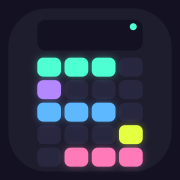
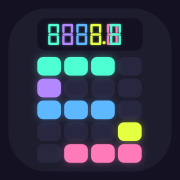
fix(brand): 屏幕改成七段 LED「8888.88」—— 空屏幕看不出是计算器
用户指出：屏幕里两个小点视觉上撑不起「计算器」，要换成彩色 LED 数字。

- brand/mark.svg：显示屏 212,104 600×184 内做七段数码管「8888.88」
  · 位宽 62 / 段厚 13 / 位高 120 / 间隙 18 / 小数点宽 16
  · 段用尖角六边形（七段管的形状，不是矩形）
  · 六位按五色相轮转：薄荷·紫·蓝·柠·粉·薄荷，小数点柠
  · 带 ledglow（stdDeviation 9）一层，与键盘的 neon-sm 分开 —— 两处发光强度不同
  · 原「指示灯」取消，让位给数字本身
- mark-small.svg：<32px 段加粗 13→22、位宽 70；屏幕与数字保留
- mark-mono.svg：屏幕 92% 白 + LED 白，亮/暗键分明
- 选 8888.88 而非具体数字：七段全点亮，远看是「发光的数字窗」；
  具体数字会诱使人去读它，反而忘了这是什么物件（写进规范）
- 样张 §三 结构表、尺寸阈值（16/24 → small）、引用完整性均已校验
- 重新生成 28 项资产；fn/ICON 256 27.2KB / 64 3.4KB
- 三份文档记下第三次改坏：屏幕留了但里面是空的

diff --git a/docs/design/v3-neon-m3.html b/docs/design/v3-neon-m3.html
@@ -259,56 +259,75 @@ hr{border:0;border-top:1px solid rgba(242,239,250,.08);margin:44px 0}
     </filter>
 
     <!-- 点亮格（发光与实色共用同一组几何：只画两遍，不逐格画） -->
-    <g id="lit"><rect x="114" y="114" width="172" height="140" rx="52" fill="#4DFFD2"/><rect x="322" y="114" width="172" height="140" rx="52" fill="#4DFFD2"/><rect x="530" y="114" width="172" height="140" rx="52" fill="#4DFFD2"/><rect x="114" y="278" width="172" height="140" rx="52" fill="#B388FF"/><rect x="114" y="442" width="172" height="140" rx="52" fill="#5DB8FF"/><rect x="322" y="442" width="172" height="140" rx="52" fill="#5DB8FF"/><rect x="530" y="442" width="172" height="140" rx="52" fill="#5DB8FF"/><rect x="738" y="606" width="172" height="140" rx="52" fill="#E5FF41"/><rect x="322" y="770" width="172" height="140" rx="52" fill="#FF7AB8"/><rect x="530" y="770" width="172" height="140" rx="52" fill="#FF7AB8"/><rect x="738" y="770" width="172" height="140" rx="52" fill="#FF7AB8"/></g>
-    <g id="grid-dark"><rect x="738" y="114" width="172" height="140" rx="52" fill="#282740"/><rect x="322" y="278" width="172" height="140" rx="52" fill="#282740"/><rect x="530" y="278" width="172" height="140" rx="52" fill="#282740"/><rect x="738" y="278" width="172" height="140" rx="52" fill="#282740"/><rect x="738" y="442" width="172" height="140" rx="52" fill="#282740"/><rect x="114" y="606" width="172" height="140" rx="52" fill="#282740"/><rect x="322" y="606" width="172" height="140" rx="52" fill="#282740"/><rect x="530" y="606" width="172" height="140" rx="52" fill="#282740"/><rect x="114" y="770" width="172" height="140" rx="52" fill="#282740"/></g>
 
     <!-- 计算器母版：显示屏 + 4×5 键盘，亮键拼出 S（≥32px） -->
-    <g id="calc-lit"><rect x="212" y="328" width="135" height="108" rx="34" fill="#4DFFD2"/><rect x="367" y="328" width="135" height="108" rx="34" fill="#4DFFD2"/><rect x="522" y="328" width="135" height="108" rx="34" fill="#4DFFD2"/><rect x="212" y="456" width="135" height="108" rx="34" fill="#B388FF"/><rect x="212" y="584" width="135" height="108" rx="34" fill="#5DB8FF"/><rect x="367" y="584" width="135" height="108" rx="34" fill="#5DB8FF"/><rect x="522" y="584" width="135" height="108" rx="34" fill="#5DB8FF"/><rect x="677" y="712" width="135" height="108" rx="34" fill="#E5FF41"/><rect x="367" y="840" width="135" height="108" rx="34" fill="#FF7AB8"/><rect x="522" y="840" width="135" height="108" rx="34" fill="#FF7AB8"/><rect x="677" y="840" width="135" height="108" rx="34" fill="#FF7AB8"/></g>
-    <g id="calc-dim"><rect x="677" y="328" width="135" height="108" rx="34" fill="#282740"/><rect x="367" y="456" width="135" height="108" rx="34" fill="#282740"/><rect x="522" y="456" width="135" height="108" rx="34" fill="#282740"/><rect x="677" y="456" width="135" height="108" rx="34" fill="#282740"/><rect x="677" y="584" width="135" height="108" rx="34" fill="#282740"/><rect x="212" y="712" width="135" height="108" rx="34" fill="#282740"/><rect x="367" y="712" width="135" height="108" rx="34" fill="#282740"/><rect x="522" y="712" width="135" height="108" rx="34" fill="#282740"/><rect x="212" y="840" width="135" height="108" rx="34" fill="#282740"/></g>
     <!-- 完整版 -->
     <symbol id="brand" viewBox="0 0 1024 1024">
-      <rect width="1024" height="1024" fill="#141222"/>
-      <rect x="48" y="48" width="928" height="928" rx="220" fill="#1E1D2E"/>
-      <rect x="212" y="112" width="600" height="176" rx="48" fill="#141222"/>
-      <circle cx="758" cy="152" r="20" fill="#4DFFD2"/>
-      <use href="#calc-dim"/>
-      <use href="#calc-lit" filter="url(#neon-sm)" opacity=".40"/>
-      <use href="#calc-lit"/>
+      <!-- v3 母版：**一台计算器**，屏幕显示 8888.88，键位亮出 S（≥32px）
+       三个部件缺一不可：
+         机身    48,48 → 928×928 rx 220        「这是一个物件」
+         显示屏  212,104 → 600×184 rx 48        七段 LED「8888.88」—— 屏幕**有内容**，
+                                                 才一眼看出是计算器（旧版屏幕是空的，
+                                                 只挂一个小指示灯，识别度不够）
+         键盘    4×5，格 135×106 rx 34，起点 (212,324)，与屏同宽 600
+       亮键 11 / 暗键 9，位置照抄原版：上横薄荷 → 左竖紫 → 中横蓝 → 右竖柠 → 下横粉
+       LED 六位按五色相轮转（薄荷/紫/蓝/柠/粉/薄荷），小数点柠。 -->
+  
+  <rect width="1024" height="1024" fill="#141222"/>
+  <rect x="48" y="48" width="928" height="928" rx="220" fill="#1E1D2E"/>
+  <rect x="212" y="104" width="600" height="184" rx="48" fill="#141222"/>
+  <use href="#led" filter="url(#ledglow)" opacity=".55"/>
+  <use href="#led"/>
+  <use href="#dim"/>
+  <use href="#lit" filter="url(#glow)" opacity=".40"/>
+  <use href="#lit"/>
     </symbol>
     <!-- 小尺寸版：键位改圆点，屏幕保留（16px 下方块会糊成一片） -->
     <symbol id="brand-sm" viewBox="0 0 1024 1024">
-      <rect width="1024" height="1024" fill="#141222"/>
-      <rect x="48" y="48" width="928" height="928" rx="220" fill="#1E1D2E"/>
-      <rect x="212" y="112" width="600" height="176" rx="48" fill="#141222"/>
-      <circle cx="790" cy="200" r="26" fill="#4DFFD2"/>
-      <circle cx="279" cy="382" r="26" fill="#4DFFD2"/>
-      <circle cx="434" cy="382" r="26" fill="#4DFFD2"/>
-      <circle cx="589" cy="382" r="26" fill="#4DFFD2"/>
-      <circle cx="744" cy="382" r="26" fill="#282740"/>
-      <circle cx="279" cy="510" r="26" fill="#B388FF"/>
-      <circle cx="434" cy="510" r="26" fill="#282740"/>
-      <circle cx="589" cy="510" r="26" fill="#282740"/>
-      <circle cx="744" cy="510" r="26" fill="#282740"/>
-      <circle cx="279" cy="638" r="26" fill="#5DB8FF"/>
-      <circle cx="434" cy="638" r="26" fill="#5DB8FF"/>
-      <circle cx="589" cy="638" r="26" fill="#5DB8FF"/>
-      <circle cx="744" cy="638" r="26" fill="#282740"/>
-      <circle cx="279" cy="766" r="26" fill="#282740"/>
-      <circle cx="434" cy="766" r="26" fill="#282740"/>
-      <circle cx="589" cy="766" r="26" fill="#282740"/>
-      <circle cx="744" cy="766" r="26" fill="#E5FF41"/>
-      <circle cx="279" cy="894" r="26" fill="#282740"/>
-      <circle cx="434" cy="894" r="26" fill="#FF7AB8"/>
-      <circle cx="589" cy="894" r="26" fill="#FF7AB8"/>
-      <circle cx="744" cy="894" r="26" fill="#FF7AB8"/>
+      <!-- v3 小尺寸版｜<32px：LED 段加粗（13→22），键位改圆点，**屏幕与 8888.88 保留**。
+       宁可牺牲键形，也不能丢掉「这是一台计算器」。 -->
+  <rect width="1024" height="1024" fill="#141222"/>
+  <rect x="48" y="48" width="928" height="928" rx="220" fill="#1E1D2E"/>
+  <rect x="212" y="104" width="600" height="184" rx="48" fill="#141222"/>
+  <use href="#led-sm" filter="url(#ledglow)" opacity=".5"/>
+  <use href="#led-sm"/>
+  <g fill="#282740">
+    <circle cx="279" cy="377" r="26"/>
+    <circle cx="432" cy="377" r="26"/>
+    <circle cx="585" cy="377" r="26"/>
+    <circle cx="738" cy="377" r="26"/>
+    <circle cx="279" cy="501" r="26"/>
+    <circle cx="432" cy="501" r="26"/>
+    <circle cx="585" cy="501" r="26"/>
+    <circle cx="738" cy="501" r="26"/>
+    <circle cx="279" cy="625" r="26"/>
+    <circle cx="432" cy="625" r="26"/>
+    <circle cx="585" cy="625" r="26"/>
+    <circle cx="738" cy="625" r="26"/>
+    <circle cx="279" cy="749" r="26"/>
+    <circle cx="432" cy="749" r="26"/>
+    <circle cx="585" cy="749" r="26"/>
+    <circle cx="738" cy="749" r="26"/>
+    <circle cx="279" cy="873" r="26"/>
+    <circle cx="432" cy="873" r="26"/>
+    <circle cx="585" cy="873" r="26"/>
+    <circle cx="738" cy="873" r="26"/>
+  </g>
+  <g fill="#4DFFD2"><circle cx="274" cy="377" r="26"/><circle cx="410" cy="377" r="26"/><circle cx="546" cy="377" r="26"/></g>
+  <g fill="#B388FF"><circle cx="274" cy="503" r="26"/></g>
+  <g fill="#5DB8FF"><circle cx="274" cy="629" r="26"/><circle cx="410" cy="629" r="26"/><circle cx="546" cy="629" r="26"/></g>
+  <g fill="#E5FF41"><circle cx="682" cy="755" r="26"/></g>
+  <g fill="#FF7AB8"><circle cx="410" cy="881" r="26"/><circle cx="546" cy="881" r="26"/><circle cx="682" cy="881" r="26"/></g>
     </symbol>
     <!-- 单色版：实心剪影 -->
     <symbol id="brand-mono" viewBox="0 0 1024 1024">
-      <rect width="1024" height="1024" fill="#141222"/>
-      <rect x="48" y="48" width="928" height="928" rx="220" fill="#1E1D2E"/>
-      <rect x="212" y="112" width="600" height="176" rx="48" fill="#141222"/>
-      <circle cx="758" cy="152" r="20" fill="#4DFFD2"/>
-      <g fill="#F2EFFA"><rect x="212" y="328" width="135" height="108" rx="34" fill="#4DFFD2"/><rect x="367" y="328" width="135" height="108" rx="34" fill="#4DFFD2"/><rect x="522" y="328" width="135" height="108" rx="34" fill="#4DFFD2"/><rect x="212" y="456" width="135" height="108" rx="34" fill="#B388FF"/><rect x="212" y="584" width="135" height="108" rx="34" fill="#5DB8FF"/><rect x="367" y="584" width="135" height="108" rx="34" fill="#5DB8FF"/><rect x="522" y="584" width="135" height="108" rx="34" fill="#5DB8FF"/><rect x="677" y="712" width="135" height="108" rx="34" fill="#E5FF41"/><rect x="367" y="840" width="135" height="108" rx="34" fill="#FF7AB8"/><rect x="522" y="840" width="135" height="108" rx="34" fill="#FF7AB8"/><rect x="677" y="840" width="135" height="108" rx="34" fill="#FF7AB8"/></g>
+      <!-- v3 单色版：屏幕+LED 亮、键位亮/暗分明（通知栏 / monochrome / 分层前景） -->
+  <rect width="1024" height="1024" fill="#141222"/>
+  <rect x="48" y="48" width="928" height="928" rx="220" fill="#1E1D2E"/>
+  <rect x="212" y="104" width="600" height="184" rx="48" fill="#F2EFFA" opacity=".92"/>
+  <use href="#led-mono"/>
+  <use href="#mono-dim"/>
+  <use href="#mono-lit"/>
     </symbol>
     <!-- 你给的原版（原样内联，用于并排对照） -->
     <symbol id="brand-orig" viewBox="0 0 240 320">
@@ -365,6 +384,14 @@ hr{border:0;border-top:1px solid rgba(242,239,250,.08);margin:44px 0}
     <symbol id="i-home" viewBox="0 0 24 24" fill="none" stroke="currentColor" stroke-width="1.8" stroke-linecap="round" stroke-linejoin="round"><path d="M4 10.8 12 4.5l8 6.3"/><path d="M6.6 9.4V19.5h10.8V9.4"/></symbol>
     <symbol id="i-list" viewBox="0 0 24 24" fill="none" stroke="currentColor" stroke-width="1.8" stroke-linecap="round"><path d="M4 7h16M4 12h16M4 17h10"/></symbol>
     <symbol id="i-budget" viewBox="0 0 24 24" fill="none" stroke="currentColor" stroke-width="1.8" stroke-linecap="round" stroke-linejoin="round"><circle cx="12" cy="12" r="7.5"/><path d="M12 12v-4.5M12 12l3.2 3.2"/></symbol>
+    <filter id="ledglow" x="-40%" y="-40%" width="180%" height="180%"><feGaussianBlur stdDeviation="9"/></filter>
+        <g id="led"><polygon points="274,142.5 280.5,136 329.5,136 336,142.5 329.5,149 280.5,149" fill="#4DFFD2"/><polygon points="329.5,136 336,142.5 336,183.0 329.5,189.5 323,183.0 323,142.5" fill="#4DFFD2"/><polygon points="323,202.5 336,202.5 336,249.5 329.5,256.0 323,249.5" fill="#4DFFD2"/><polygon points="274,249.5 280.5,243 329.5,243 336,249.5 329.5,256 280.5,256" fill="#4DFFD2"/><polygon points="274,202.5 287,202.5 287,249.5 280.5,256.0 274,249.5" fill="#4DFFD2"/><polygon points="280.5,136 287,142.5 287,183.0 280.5,189.5 274,183.0 274,142.5" fill="#4DFFD2"/><polygon points="274,196.0 280.5,189.5 329.5,189.5 336,196.0 329.5,202.5 280.5,202.5" fill="#4DFFD2"/><polygon points="354,142.5 360.5,136 409.5,136 416,142.5 409.5,149 360.5,149" fill="#B388FF"/><polygon points="409.5,136 416,142.5 416,183.0 409.5,189.5 403,183.0 403,142.5" fill="#B388FF"/><polygon points="403,202.5 416,202.5 416,249.5 409.5,256.0 403,249.5" fill="#B388FF"/><polygon points="354,249.5 360.5,243 409.5,243 416,249.5 409.5,256 360.5,256" fill="#B388FF"/><polygon points="354,202.5 367,202.5 367,249.5 360.5,256.0 354,249.5" fill="#B388FF"/><polygon points="360.5,136 367,142.5 367,183.0 360.5,189.5 354,183.0 354,142.5" fill="#B388FF"/><polygon points="354,196.0 360.5,189.5 409.5,189.5 416,196.0 409.5,202.5 360.5,202.5" fill="#B388FF"/><polygon points="434,142.5 440.5,136 489.5,136 496,142.5 489.5,149 440.5,149" fill="#5DB8FF"/><polygon points="489.5,136 496,142.5 496,183.0 489.5,189.5 483,183.0 483,142.5" fill="#5DB8FF"/><polygon points="483,202.5 496,202.5 496,249.5 489.5,256.0 483,249.5" fill="#5DB8FF"/><polygon points="434,249.5 440.5,243 489.5,243 496,249.5 489.5,256 440.5,256" fill="#5DB8FF"/><polygon points="434,202.5 447,202.5 447,249.5 440.5,256.0 434,249.5" fill="#5DB8FF"/><polygon points="440.5,136 447,142.5 447,183.0 440.5,189.5 434,183.0 434,142.5" fill="#5DB8FF"/><polygon points="434,196.0 440.5,189.5 489.5,189.5 496,196.0 489.5,202.5 440.5,202.5" fill="#5DB8FF"/><polygon points="514,142.5 520.5,136 569.5,136 576,142.5 569.5,149 520.5,149" fill="#E5FF41"/><polygon points="569.5,136 576,142.5 576,183.0 569.5,189.5 563,183.0 563,142.5" fill="#E5FF41"/><polygon points="563,202.5 576,202.5 576,249.5 569.5,256.0 563,249.5" fill="#E5FF41"/><polygon points="514,249.5 520.5,243 569.5,243 576,249.5 569.5,256 520.5,256" fill="#E5FF41"/><polygon points="514,202.5 527,202.5 527,249.5 520.5,256.0 514,249.5" fill="#E5FF41"/><polygon points="520.5,136 527,142.5 527,183.0 520.5,189.5 514,183.0 514,142.5" fill="#E5FF41"/><polygon points="514,196.0 520.5,189.5 569.5,189.5 576,196.0 569.5,202.5 520.5,202.5" fill="#E5FF41"/><polygon points="608,142.5 614.5,136 663.5,136 670,142.5 663.5,149 614.5,149" fill="#FF7AB8"/><polygon points="663.5,136 670,142.5 670,183.0 663.5,189.5 657,183.0 657,142.5" fill="#FF7AB8"/><polygon points="657,202.5 670,202.5 670,249.5 663.5,256.0 657,249.5" fill="#FF7AB8"/><polygon points="608,249.5 614.5,243 663.5,243 670,249.5 663.5,256 614.5,256" fill="#FF7AB8"/><polygon points="608,202.5 621,202.5 621,249.5 614.5,256.0 608,249.5" fill="#FF7AB8"/><polygon points="614.5,136 621,142.5 621,183.0 614.5,189.5 608,183.0 608,142.5" fill="#FF7AB8"/><polygon points="608,196.0 614.5,189.5 663.5,189.5 670,196.0 663.5,202.5 614.5,202.5" fill="#FF7AB8"/><polygon points="626,142.5 632.5,136 681.5,136 688,142.5 681.5,149 632.5,149" fill="#4DFFD2"/><polygon points="681.5,136 688,142.5 688,183.0 681.5,189.5 675,183.0 675,142.5" fill="#4DFFD2"/><polygon points="675,202.5 688,202.5 688,249.5 681.5,256.0 675,249.5" fill="#4DFFD2"/><polygon points="626,249.5 632.5,243 681.5,243 688,249.5 681.5,256 632.5,256" fill="#4DFFD2"/><polygon points="626,202.5 639,202.5 639,249.5 632.5,256.0 626,249.5" fill="#4DFFD2"/><polygon points="632.5,136 639,142.5 639,183.0 632.5,189.5 626,183.0 626,142.5" fill="#4DFFD2"/><polygon points="626,196.0 632.5,189.5 681.5,189.5 688,196.0 681.5,202.5 632.5,202.5" fill="#4DFFD2"/><circle cx="592.0" cy="243" r="9" fill="#E5FF41"/></g>
+        <g id="led-sm"><polygon points="261,142.0 272.0,131 320.0,131 331,142.0 320.0,153 272.0,153" fill="#4DFFD2"/><polygon points="320.0,131 331,142.0 331,174.0 320.0,185.0 309,174.0 309,142.0" fill="#4DFFD2"/><polygon points="309,207.0 331,207.0 331,250.0 320.0,261.0 309,250.0" fill="#4DFFD2"/><polygon points="261,250.0 272.0,239 320.0,239 331,250.0 320.0,261 272.0,261" fill="#4DFFD2"/><polygon points="261,207.0 283,207.0 283,250.0 272.0,261.0 261,250.0" fill="#4DFFD2"/><polygon points="272.0,131 283,142.0 283,174.0 272.0,185.0 261,174.0 261,142.0" fill="#4DFFD2"/><polygon points="261,196.0 272.0,185.0 320.0,185.0 331,196.0 320.0,207.0 272.0,207.0" fill="#4DFFD2"/><polygon points="343,142.0 354.0,131 402.0,131 413,142.0 402.0,153 354.0,153" fill="#B388FF"/><polygon points="402.0,131 413,142.0 413,174.0 402.0,185.0 391,174.0 391,142.0" fill="#B388FF"/><polygon points="391,207.0 413,207.0 413,250.0 402.0,261.0 391,250.0" fill="#B388FF"/><polygon points="343,250.0 354.0,239 402.0,239 413,250.0 402.0,261 354.0,261" fill="#B388FF"/><polygon points="343,207.0 365,207.0 365,250.0 354.0,261.0 343,250.0" fill="#B388FF"/><polygon points="354.0,131 365,142.0 365,174.0 354.0,185.0 343,174.0 343,142.0" fill="#B388FF"/><polygon points="343,196.0 354.0,185.0 402.0,185.0 413,196.0 402.0,207.0 354.0,207.0" fill="#B388FF"/><polygon points="425,142.0 436.0,131 484.0,131 495,142.0 484.0,153 436.0,153" fill="#5DB8FF"/><polygon points="484.0,131 495,142.0 495,174.0 484.0,185.0 473,174.0 473,142.0" fill="#5DB8FF"/><polygon points="473,207.0 495,207.0 495,250.0 484.0,261.0 473,250.0" fill="#5DB8FF"/><polygon points="425,250.0 436.0,239 484.0,239 495,250.0 484.0,261 436.0,261" fill="#5DB8FF"/><polygon points="425,207.0 447,207.0 447,250.0 436.0,261.0 425,250.0" fill="#5DB8FF"/><polygon points="436.0,131 447,142.0 447,174.0 436.0,185.0 425,174.0 425,142.0" fill="#5DB8FF"/><polygon points="425,196.0 436.0,185.0 484.0,185.0 495,196.0 484.0,207.0 436.0,207.0" fill="#5DB8FF"/><polygon points="507,142.0 518.0,131 566.0,131 577,142.0 566.0,153 518.0,153" fill="#E5FF41"/><polygon points="566.0,131 577,142.0 577,174.0 566.0,185.0 555,174.0 555,142.0" fill="#E5FF41"/><polygon points="555,207.0 577,207.0 577,250.0 566.0,261.0 555,250.0" fill="#E5FF41"/><polygon points="507,250.0 518.0,239 566.0,239 577,250.0 566.0,261 518.0,261" fill="#E5FF41"/><polygon points="507,207.0 529,207.0 529,250.0 518.0,261.0 507,250.0" fill="#E5FF41"/><polygon points="518.0,131 529,142.0 529,174.0 518.0,185.0 507,174.0 507,142.0" fill="#E5FF41"/><polygon points="507,196.0 518.0,185.0 566.0,185.0 577,196.0 566.0,207.0 518.0,207.0" fill="#E5FF41"/><polygon points="611,142.0 622.0,131 670.0,131 681,142.0 670.0,153 622.0,153" fill="#FF7AB8"/><polygon points="670.0,131 681,142.0 681,174.0 670.0,185.0 659,174.0 659,142.0" fill="#FF7AB8"/><polygon points="659,207.0 681,207.0 681,250.0 670.0,261.0 659,250.0" fill="#FF7AB8"/><polygon points="611,250.0 622.0,239 670.0,239 681,250.0 670.0,261 622.0,261" fill="#FF7AB8"/><polygon points="611,207.0 633,207.0 633,250.0 622.0,261.0 611,250.0" fill="#FF7AB8"/><polygon points="622.0,131 633,142.0 633,174.0 622.0,185.0 611,174.0 611,142.0" fill="#FF7AB8"/><polygon points="611,196.0 622.0,185.0 670.0,185.0 681,196.0 670.0,207.0 622.0,207.0" fill="#FF7AB8"/><polygon points="623,142.0 634.0,131 682.0,131 693,142.0 682.0,153 634.0,153" fill="#4DFFD2"/><polygon points="682.0,131 693,142.0 693,174.0 682.0,185.0 671,174.0 671,142.0" fill="#4DFFD2"/><polygon points="671,207.0 693,207.0 693,250.0 682.0,261.0 671,250.0" fill="#4DFFD2"/><polygon points="623,250.0 634.0,239 682.0,239 693,250.0 682.0,261 634.0,261" fill="#4DFFD2"/><polygon points="623,207.0 645,207.0 645,250.0 634.0,261.0 623,250.0" fill="#4DFFD2"/><polygon points="634.0,131 645,142.0 645,174.0 634.0,185.0 623,174.0 623,142.0" fill="#4DFFD2"/><polygon points="623,196.0 634.0,185.0 682.0,185.0 693,196.0 682.0,207.0 634.0,207.0" fill="#4DFFD2"/><circle cx="594.0" cy="239" r="9" fill="#E5FF41"/></g>
+        <g id="led-mono"><polygon points="274,142.5 280.5,136 329.5,136 336,142.5 329.5,149 280.5,149" fill="#F2EFFA"/><polygon points="329.5,136 336,142.5 336,183.0 329.5,189.5 323,183.0 323,142.5" fill="#F2EFFA"/><polygon points="323,202.5 336,202.5 336,249.5 329.5,256.0 323,249.5" fill="#F2EFFA"/><polygon points="274,249.5 280.5,243 329.5,243 336,249.5 329.5,256 280.5,256" fill="#F2EFFA"/><polygon points="274,202.5 287,202.5 287,249.5 280.5,256.0 274,249.5" fill="#F2EFFA"/><polygon points="280.5,136 287,142.5 287,183.0 280.5,189.5 274,183.0 274,142.5" fill="#F2EFFA"/><polygon points="274,196.0 280.5,189.5 329.5,189.5 336,196.0 329.5,202.5 280.5,202.5" fill="#F2EFFA"/><polygon points="354,142.5 360.5,136 409.5,136 416,142.5 409.5,149 360.5,149" fill="#F2EFFA"/><polygon points="409.5,136 416,142.5 416,183.0 409.5,189.5 403,183.0 403,142.5" fill="#F2EFFA"/><polygon points="403,202.5 416,202.5 416,249.5 409.5,256.0 403,249.5" fill="#F2EFFA"/><polygon points="354,249.5 360.5,243 409.5,243 416,249.5 409.5,256 360.5,256" fill="#F2EFFA"/><polygon points="354,202.5 367,202.5 367,249.5 360.5,256.0 354,249.5" fill="#F2EFFA"/><polygon points="360.5,136 367,142.5 367,183.0 360.5,189.5 354,183.0 354,142.5" fill="#F2EFFA"/><polygon points="354,196.0 360.5,189.5 409.5,189.5 416,196.0 409.5,202.5 360.5,202.5" fill="#F2EFFA"/><polygon points="434,142.5 440.5,136 489.5,136 496,142.5 489.5,149 440.5,149" fill="#F2EFFA"/><polygon points="489.5,136 496,142.5 496,183.0 489.5,189.5 483,183.0 483,142.5" fill="#F2EFFA"/><polygon points="483,202.5 496,202.5 496,249.5 489.5,256.0 483,249.5" fill="#F2EFFA"/><polygon points="434,249.5 440.5,243 489.5,243 496,249.5 489.5,256 440.5,256" fill="#F2EFFA"/><polygon points="434,202.5 447,202.5 447,249.5 440.5,256.0 434,249.5" fill="#F2EFFA"/><polygon points="440.5,136 447,142.5 447,183.0 440.5,189.5 434,183.0 434,142.5" fill="#F2EFFA"/><polygon points="434,196.0 440.5,189.5 489.5,189.5 496,196.0 489.5,202.5 440.5,202.5" fill="#F2EFFA"/><polygon points="514,142.5 520.5,136 569.5,136 576,142.5 569.5,149 520.5,149" fill="#F2EFFA"/><polygon points="569.5,136 576,142.5 576,183.0 569.5,189.5 563,183.0 563,142.5" fill="#F2EFFA"/><polygon points="563,202.5 576,202.5 576,249.5 569.5,256.0 563,249.5" fill="#F2EFFA"/><polygon points="514,249.5 520.5,243 569.5,243 576,249.5 569.5,256 520.5,256" fill="#F2EFFA"/><polygon points="514,202.5 527,202.5 527,249.5 520.5,256.0 514,249.5" fill="#F2EFFA"/><polygon points="520.5,136 527,142.5 527,183.0 520.5,189.5 514,183.0 514,142.5" fill="#F2EFFA"/><polygon points="514,196.0 520.5,189.5 569.5,189.5 576,196.0 569.5,202.5 520.5,202.5" fill="#F2EFFA"/><polygon points="608,142.5 614.5,136 663.5,136 670,142.5 663.5,149 614.5,149" fill="#F2EFFA"/><polygon points="663.5,136 670,142.5 670,183.0 663.5,189.5 657,183.0 657,142.5" fill="#F2EFFA"/><polygon points="657,202.5 670,202.5 670,249.5 663.5,256.0 657,249.5" fill="#F2EFFA"/><polygon points="608,249.5 614.5,243 663.5,243 670,249.5 663.5,256 614.5,256" fill="#F2EFFA"/><polygon points="608,202.5 621,202.5 621,249.5 614.5,256.0 608,249.5" fill="#F2EFFA"/><polygon points="614.5,136 621,142.5 621,183.0 614.5,189.5 608,183.0 608,142.5" fill="#F2EFFA"/><polygon points="608,196.0 614.5,189.5 663.5,189.5 670,196.0 663.5,202.5 614.5,202.5" fill="#F2EFFA"/><polygon points="626,142.5 632.5,136 681.5,136 688,142.5 681.5,149 632.5,149" fill="#F2EFFA"/><polygon points="681.5,136 688,142.5 688,183.0 681.5,189.5 675,183.0 675,142.5" fill="#F2EFFA"/><polygon points="675,202.5 688,202.5 688,249.5 681.5,256.0 675,249.5" fill="#F2EFFA"/><polygon points="626,249.5 632.5,243 681.5,243 688,249.5 681.5,256 632.5,256" fill="#F2EFFA"/><polygon points="626,202.5 639,202.5 639,249.5 632.5,256.0 626,249.5" fill="#F2EFFA"/><polygon points="632.5,136 639,142.5 639,183.0 632.5,189.5 626,183.0 626,142.5" fill="#F2EFFA"/><polygon points="626,196.0 632.5,189.5 681.5,189.5 688,196.0 681.5,202.5 632.5,202.5" fill="#F2EFFA"/><circle cx="592.0" cy="243" r="9" fill="#E5FF41"/></g>
+    <g id="lit"><rect x="212" y="324" width="135" height="106" rx="34" fill="#4DFFD2"/><rect x="365" y="324" width="135" height="106" rx="34" fill="#4DFFD2"/><rect x="518" y="324" width="135" height="106" rx="34" fill="#4DFFD2"/><rect x="212" y="448" width="135" height="106" rx="34" fill="#B388FF"/><rect x="212" y="572" width="135" height="106" rx="34" fill="#5DB8FF"/><rect x="365" y="572" width="135" height="106" rx="34" fill="#5DB8FF"/><rect x="518" y="572" width="135" height="106" rx="34" fill="#5DB8FF"/><rect x="671" y="696" width="135" height="106" rx="34" fill="#E5FF41"/><rect x="365" y="820" width="135" height="106" rx="34" fill="#FF7AB8"/><rect x="518" y="820" width="135" height="106" rx="34" fill="#FF7AB8"/><rect x="671" y="820" width="135" height="106" rx="34" fill="#FF7AB8"/></g>
+    <g id="dim"><rect x="671" y="324" width="135" height="106" rx="34" fill="#282740"/><rect x="365" y="448" width="135" height="106" rx="34" fill="#282740"/><rect x="518" y="448" width="135" height="106" rx="34" fill="#282740"/><rect x="671" y="448" width="135" height="106" rx="34" fill="#282740"/><rect x="671" y="572" width="135" height="106" rx="34" fill="#282740"/><rect x="212" y="696" width="135" height="106" rx="34" fill="#282740"/><rect x="365" y="696" width="135" height="106" rx="34" fill="#282740"/><rect x="518" y="696" width="135" height="106" rx="34" fill="#282740"/><rect x="212" y="820" width="135" height="106" rx="34" fill="#282740"/></g>
+    <g id="mono-lit"><rect x="212" y="324" width="135" height="106" rx="34" fill="#F2EFFA"/><rect x="365" y="324" width="135" height="106" rx="34" fill="#F2EFFA"/><rect x="518" y="324" width="135" height="106" rx="34" fill="#F2EFFA"/><rect x="212" y="448" width="135" height="106" rx="34" fill="#F2EFFA"/><rect x="212" y="572" width="135" height="106" rx="34" fill="#F2EFFA"/><rect x="365" y="572" width="135" height="106" rx="34" fill="#F2EFFA"/><rect x="518" y="572" width="135" height="106" rx="34" fill="#F2EFFA"/><rect x="671" y="696" width="135" height="106" rx="34" fill="#F2EFFA"/><rect x="365" y="820" width="135" height="106" rx="34" fill="#F2EFFA"/><rect x="518" y="820" width="135" height="106" rx="34" fill="#F2EFFA"/><rect x="671" y="820" width="135" height="106" rx="34" fill="#F2EFFA"/></g>
+    <g id="mono-dim"><rect x="671" y="324" width="135" height="106" rx="34" fill="#F2EFFA" opacity=".30"/><rect x="365" y="448" width="135" height="106" rx="34" fill="#F2EFFA" opacity=".30"/><rect x="518" y="448" width="135" height="106" rx="34" fill="#F2EFFA" opacity=".30"/><rect x="671" y="448" width="135" height="106" rx="34" fill="#F2EFFA" opacity=".30"/><rect x="671" y="572" width="135" height="106" rx="34" fill="#F2EFFA" opacity=".30"/><rect x="212" y="696" width="135" height="106" rx="34" fill="#F2EFFA" opacity=".30"/><rect x="365" y="696" width="135" height="106" rx="34" fill="#F2EFFA" opacity=".30"/><rect x="518" y="696" width="135" height="106" rx="34" fill="#F2EFFA" opacity=".30"/><rect x="212" y="820" width="135" height="106" rx="34" fill="#F2EFFA" opacity=".30"/></g>
   </defs>
 </svg>
 

diff --git a/docs/design/brand/README.md b/docs/design/brand/README.md
@@ -14,8 +14,9 @@
 > 发光由「逐键两次绘制」改为「分组模糊一次」、圆角收敛。
 > **不许重排键位、不许改色序、不许删显示屏。**
 >
-> 显示屏是**语义主体**不是装饰：曾把它当「大尺寸才配的 header 条」删掉，
-> 结果 Logo 立刻退化成一团发光点阵，谁也看不出是什么。
+> 显示屏是**语义主体**不是装饰，而且**必须有内容**：曾把它当「大尺寸才配的 header 条」删掉，
+> 结果 Logo 退化成一团发光点阵；也曾只挂一个小指示灯，32px 以下仍看不出「这是屏幕」。
+> 最终形态是**七段 LED「8888.88」** —— 「计算器」这件事不用猜。
 
 ## 四个形态与尺寸阈值
 
@@ -35,10 +36,13 @@
 ## 几何（1024 坐标）
 
 ```
-母版    : 机身 48,48 928×928 r220 · 屏 212,112 600×176 r48 · 灯 r20 @(758,152)
-          键盘 4×5，格 135×108 r34，间距 20/20，起点 (212,328)
-小尺寸  : 同上，但键位改成 r26 圆点（16px 下方块会糊），屏与灯保留
-单色    : 屏 85% 白 + 亮键白 + 暗键 30% 白（靠明暗，不靠颜色）
+母版    : 机身 48,48 928×928 r220
+          屏幕 212,104 600×184 r48（#141222，比机身暗＝凹）
+          LED  位宽 62 / 段厚 13 / 位高 120 / 间隙 18 / 小数点 16；六位按五色相轮转
+               薄荷·紫·蓝·柠·粉·薄荷，小数点柠；段用尖角六边形（七段数码管的形状）
+          键盘 4×5，格 135×106 r34，间距 18/18，起点 (212,324)，与屏同宽 600
+小尺寸  : LED 段加粗 13→22、位宽 70；键位改 r26 圆点；屏幕与数字保留
+单色    : 屏幕 92% 白 + LED 白 + 亮键白 + 暗键 30% 白（靠明暗，不靠颜色）
 ```
 
 ## 生成全端资产

diff --git a/docs/decisions.md b/docs/decisions.md
@@ -686,12 +686,16 @@ docs/plan.md:440  第四轮已落地：移除移动底栏（--bottom-bar-h: 0）
 
 标记 = **机身 + 显示屏（带指示灯）+ 4×5 键盘**，亮起的键位拼出 S。三个部件缺一不可。
 
-我改坏过两次，两次都是「以为在优化、实际在删语义」：
+我改坏过三次，三次都是「以为在优化、实际在删语义」：
 
 1. 把键位矩阵换成「4×3 + 右列金额柱」——那不是优化，是另画了一个图形。
-2. 把**显示屏**删掉，还臆造了「header 条是大尺寸才配的装饰，≥48px 才出现」这条假规则。
+2. 把**显示屏**删掉，还臆造了「header 条是大尺寸才配的装饰」这条假规则 ——
+   只剩一团发光点阵。
+3. 屏幕留了，但里面**是空的**（只挂一个小指示灯）——「计算器」仍要靠猜。
 
-显示屏是**语义主体**：删掉它，Logo 就退化成一团发光点阵，谁都看不出是什么。
+显示屏是**语义主体，而且必须有内容**。最终形态：七段 LED「8888.88」。
+选 8888.88 而非具体数字的理由：七段全点亮，远看是一块发光的数字窗；
+具体数字会诱使人去读它，反而忘了这是台计算器。
 翻新只允许改四件技术问题：方形画布 / 去描边（屏用更暗的底色凹进去）/ 分组发光一次 / 圆角收敛。
 **键位、色序、显示屏，都不许动。**
 

diff --git a/docs/design/suenmoney-v3-design-system.md b/docs/design/suenmoney-v3-design-system.md
@@ -172,7 +172,7 @@ docs/plan.md:440   第四轮已落地：彻底移除移动底栏（--bottom-bar-
 | 形态 | 文件 | 何时用 |
 |---|---|---|
 | 完整 | `brand/mark.svg` | **≥32px**：iOS / 鸿蒙 / fnOS 图标、启动图、桌面、顶栏 |
-| 小尺寸 | `brand/mark-small.svg` | **<32px**：favicon 16/24、通知栏。键位改圆点，**屏与灯保留** |
+| 小尺寸 | `brand/mark-small.svg` | **<32px**：favicon 16/24、通知栏。LED 段加粗 13→22，键位改圆点，**屏幕与数字保留** |
 | 单色 | `brand/mark-mono.svg` | 安卓 monochrome、鸿蒙分层前景、系统染色。屏 85% 白 + 亮键白 + 暗键 30% 白 |
 
 ### 全端产物（`npm run icons` 一条命令）
